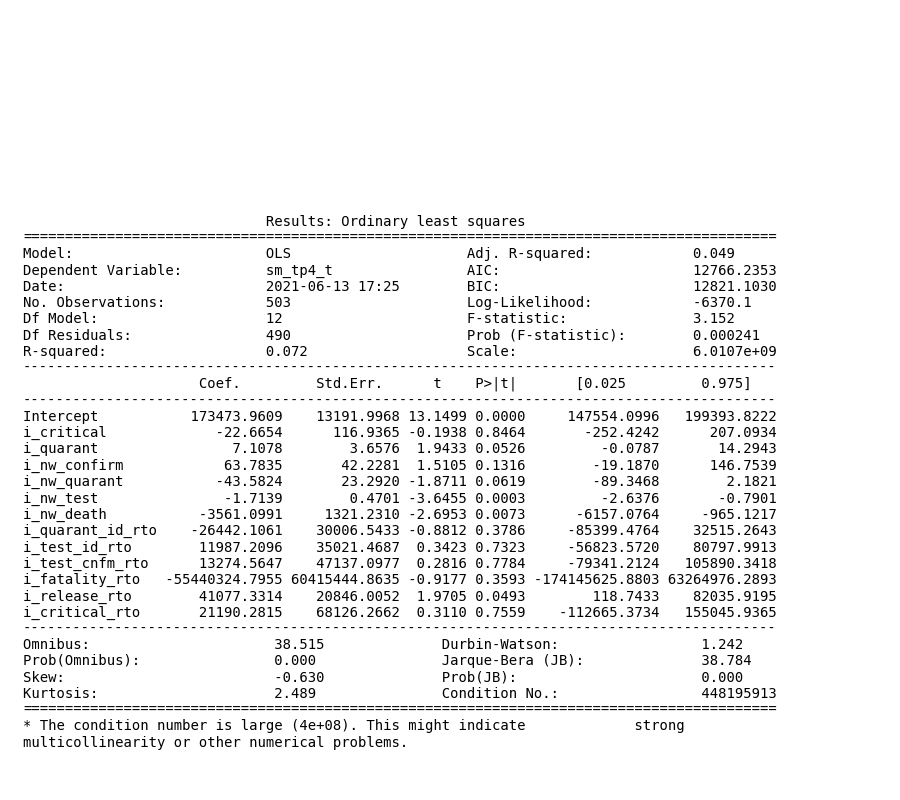
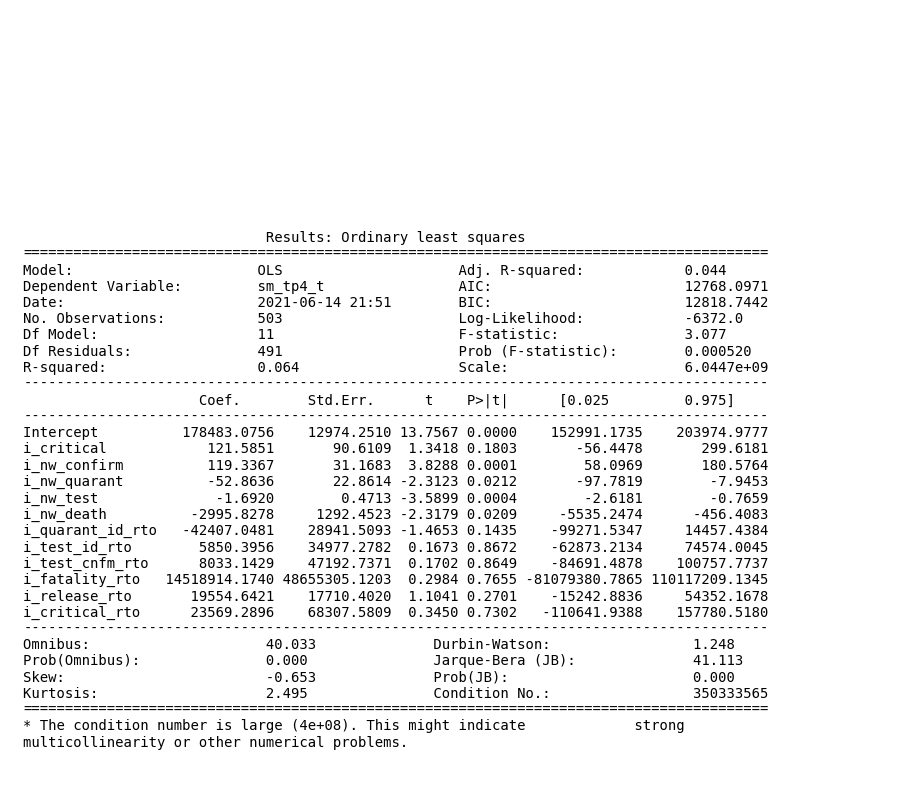
#11 | 기수별 회귀분석

Changed region(s): [[0.0311, 0.25, 0.8711, 0.875], [0.0311, 0.5, 0.1244, 0.5625]]

diff --git a/main.py b/main.py
@@ -59,7 +59,6 @@ features = "i_critical+" \
 # i_nw_release
 # i_confirm_id_rto
 features_fixed = "i_critical+" \
-                 "i_quarant+" \
                  "i_nw_confirm+" \
                  "i_nw_quarant+" \
                  "i_nw_test+" \
@@ -127,6 +126,7 @@ def descriptive_statistics():
     dfi.export(statistic_df, 'image/8_statistic_view.png')
 
     # 코로나 관련 독립변수 Lag 적용
+    # data['sm_tot_t'] = data['sm_tot_t'].shift(1)
     data['i_critical'] = data['i_critical'].shift(1)
     data['i_quarant'] = data['i_quarant'].shift(1)
     data['i_under_test'] = data['i_under_test'].shift(1)
@@ -207,51 +207,60 @@ def regression_analysis(data):
         plt.savefig('./image/10_회귀분석' + "_" + v + '_다중공선성_제거.png')
         plt.close()
 
+
 # 시기별 효과 분석
 def regression_analysis_per_season():
+    data_dic = {
+        "1기": "1_totally_raw_data_first.csv",
+        "2기": "2_totally_raw_data_second.csv",
+        "3기": "3_totally_raw_data_third.csv",
+        "4기": "4_totally_raw_data_fourth.csv",
+        "5기": "5_totally_raw_data_fifth.csv"
+    }
 
-    data = pd.read_csv('./rawdata/5_totally_raw_data_fifth.csv')
-    data['i_critical'] = data['i_critical'].shift(1)
-    data['i_quarant'] = data['i_quarant'].shift(1)
-    data['i_under_test'] = data['i_under_test'].shift(1)
-    data['i_nw_confirm'] = data['i_nw_confirm'].shift(1)
-    data['i_nw_quarant'] = data['i_nw_quarant'].shift(1)
-    data['i_nw_release'] = data['i_nw_release'].shift(1)
-    data['i_nw_test'] = data['i_nw_test'].shift(1)
-    data['i_confirm_id_rto'] = data['i_confirm_id_rto'].shift(1)
-    data['i_quarant_id_rto'] = data['i_quarant_id_rto'].shift(1)
-    data['i_test_id_rto'] = data['i_test_id_rto'].shift(1)
-    data['i_test_cnfm_rto'] = data['i_test_cnfm_rto'].shift(1)
-    data['i_confirm_rto'] = data['i_confirm_rto'].shift(1)
-    data['i_fatality_rto'] = data['i_fatality_rto'].shift(1)
-    data['i_release_rto'] = data['i_release_rto'].shift(1)
-    data['i_critical_rto'] = data['i_critical_rto'].shift(1)
-    data['i_nw_death'] = data['i_nw_death'].shift(1)
+    for key in data_dic:
+        data = pd.read_csv('./rawdata/' + data_dic[key])
+        data['i_critical'] = data['i_critical'].shift(1)
+        data['i_quarant'] = data['i_quarant'].shift(1)
+        data['i_under_test'] = data['i_under_test'].shift(1)
+        data['i_nw_confirm'] = data['i_nw_confirm'].shift(1)
+        data['i_nw_quarant'] = data['i_nw_quarant'].shift(1)
+        data['i_nw_release'] = data['i_nw_release'].shift(1)
+        data['i_nw_test'] = data['i_nw_test'].shift(1)
+        data['i_confirm_id_rto'] = data['i_confirm_id_rto'].shift(1)
+        data['i_quarant_id_rto'] = data['i_quarant_id_rto'].shift(1)
+        data['i_test_id_rto'] = data['i_test_id_rto'].shift(1)
+        data['i_test_cnfm_rto'] = data['i_test_cnfm_rto'].shift(1)
+        data['i_confirm_rto'] = data['i_confirm_rto'].shift(1)
+        data['i_fatality_rto'] = data['i_fatality_rto'].shift(1)
+        data['i_release_rto'] = data['i_release_rto'].shift(1)
+        data['i_critical_rto'] = data['i_critical_rto'].shift(1)
+        data['i_nw_death'] = data['i_nw_death'].shift(1)
 
-    y, x = dmatrices("sm_tot_t ~" + features, data=data, return_type="dataframe")
-    result = sm.OLS(y, x).fit()
-    plt.rc('figure', figsize=(9, 8))
-    plt.text(0.01, 0.05, str(result.summary2()), {'fontsize': 10},
-             fontproperties='monospace')  # approach improved by OP -> monospace!
-    plt.axis('off')
-    plt.tight_layout()
-    plt.savefig('./image/10_회귀분석_fifth.png')
-    plt.close()
+        y, x = dmatrices("sm_tot_t ~" + features, data=data, return_type="dataframe")
+        result = sm.OLS(y, x).fit()
+        plt.rc('figure', figsize=(9, 8))
+        plt.text(0.01, 0.05, str(result.summary2()), {'fontsize': 10},
+                 fontproperties='monospace')  # approach improved by OP -> monospace!
+        plt.axis('off')
+        plt.tight_layout()
+        plt.savefig('./image/10_회귀분석_'+key+'.png')
+        plt.close()
 
-    y1, x1 = dmatrices("sm_tot_t ~" + features_fixed, data=data, return_type="dataframe")
-    result1 = sm.OLS(y1, x1).fit()
-    plt.rc('figure', figsize=(9, 8))
-    plt.text(0.01, 0.05, str(result1.summary2()), {'fontsize': 10},
-             fontproperties='monospace')  # approach improved by OP -> monospace!
-    plt.axis('off')
-    plt.tight_layout()
-    plt.savefig('./image/10_회귀분석_fifth_다중공선성_제거.png')
-    plt.close()
+        y1, x1 = dmatrices("sm_tot_t ~" + features_fixed, data=data, return_type="dataframe")
+        result1 = sm.OLS(y1, x1).fit()
+        plt.rc('figure', figsize=(9, 8))
+        plt.text(0.01, 0.05, str(result1.summary2()), {'fontsize': 10},
+                 fontproperties='monospace')  # approach improved by OP -> monospace!
+        plt.axis('off')
+        plt.tight_layout()
+        plt.savefig('./image/10_회귀분석_'+key+'_다중공선성_제거.png')
+        plt.close()
 
 
 if __name__ == '__main__':
-    # data = descriptive_statistics()
-    # calc_correlation(data)
-    # check_vif(data)
-    # regression_analysis(data)
+    data = descriptive_statistics()
+    calc_correlation(data)
+    check_vif(data)
+    regression_analysis(data)
     regression_analysis_per_season()
